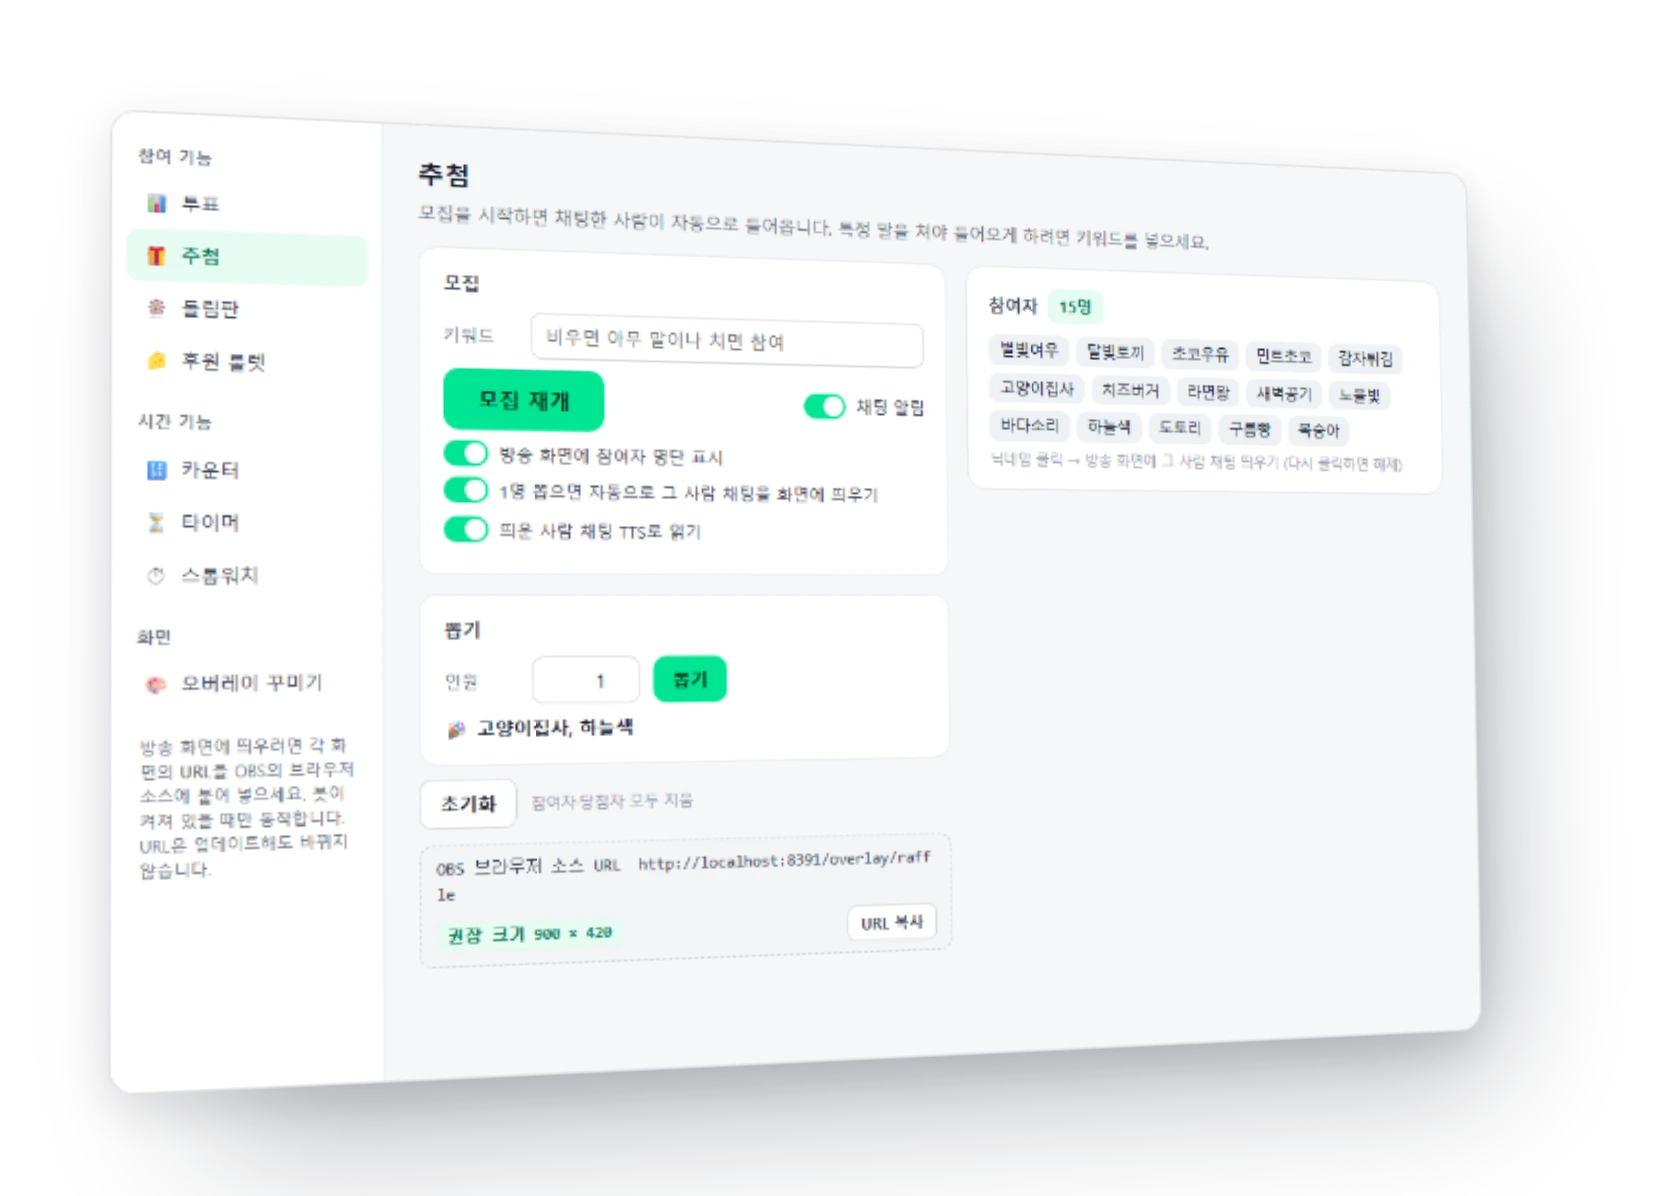
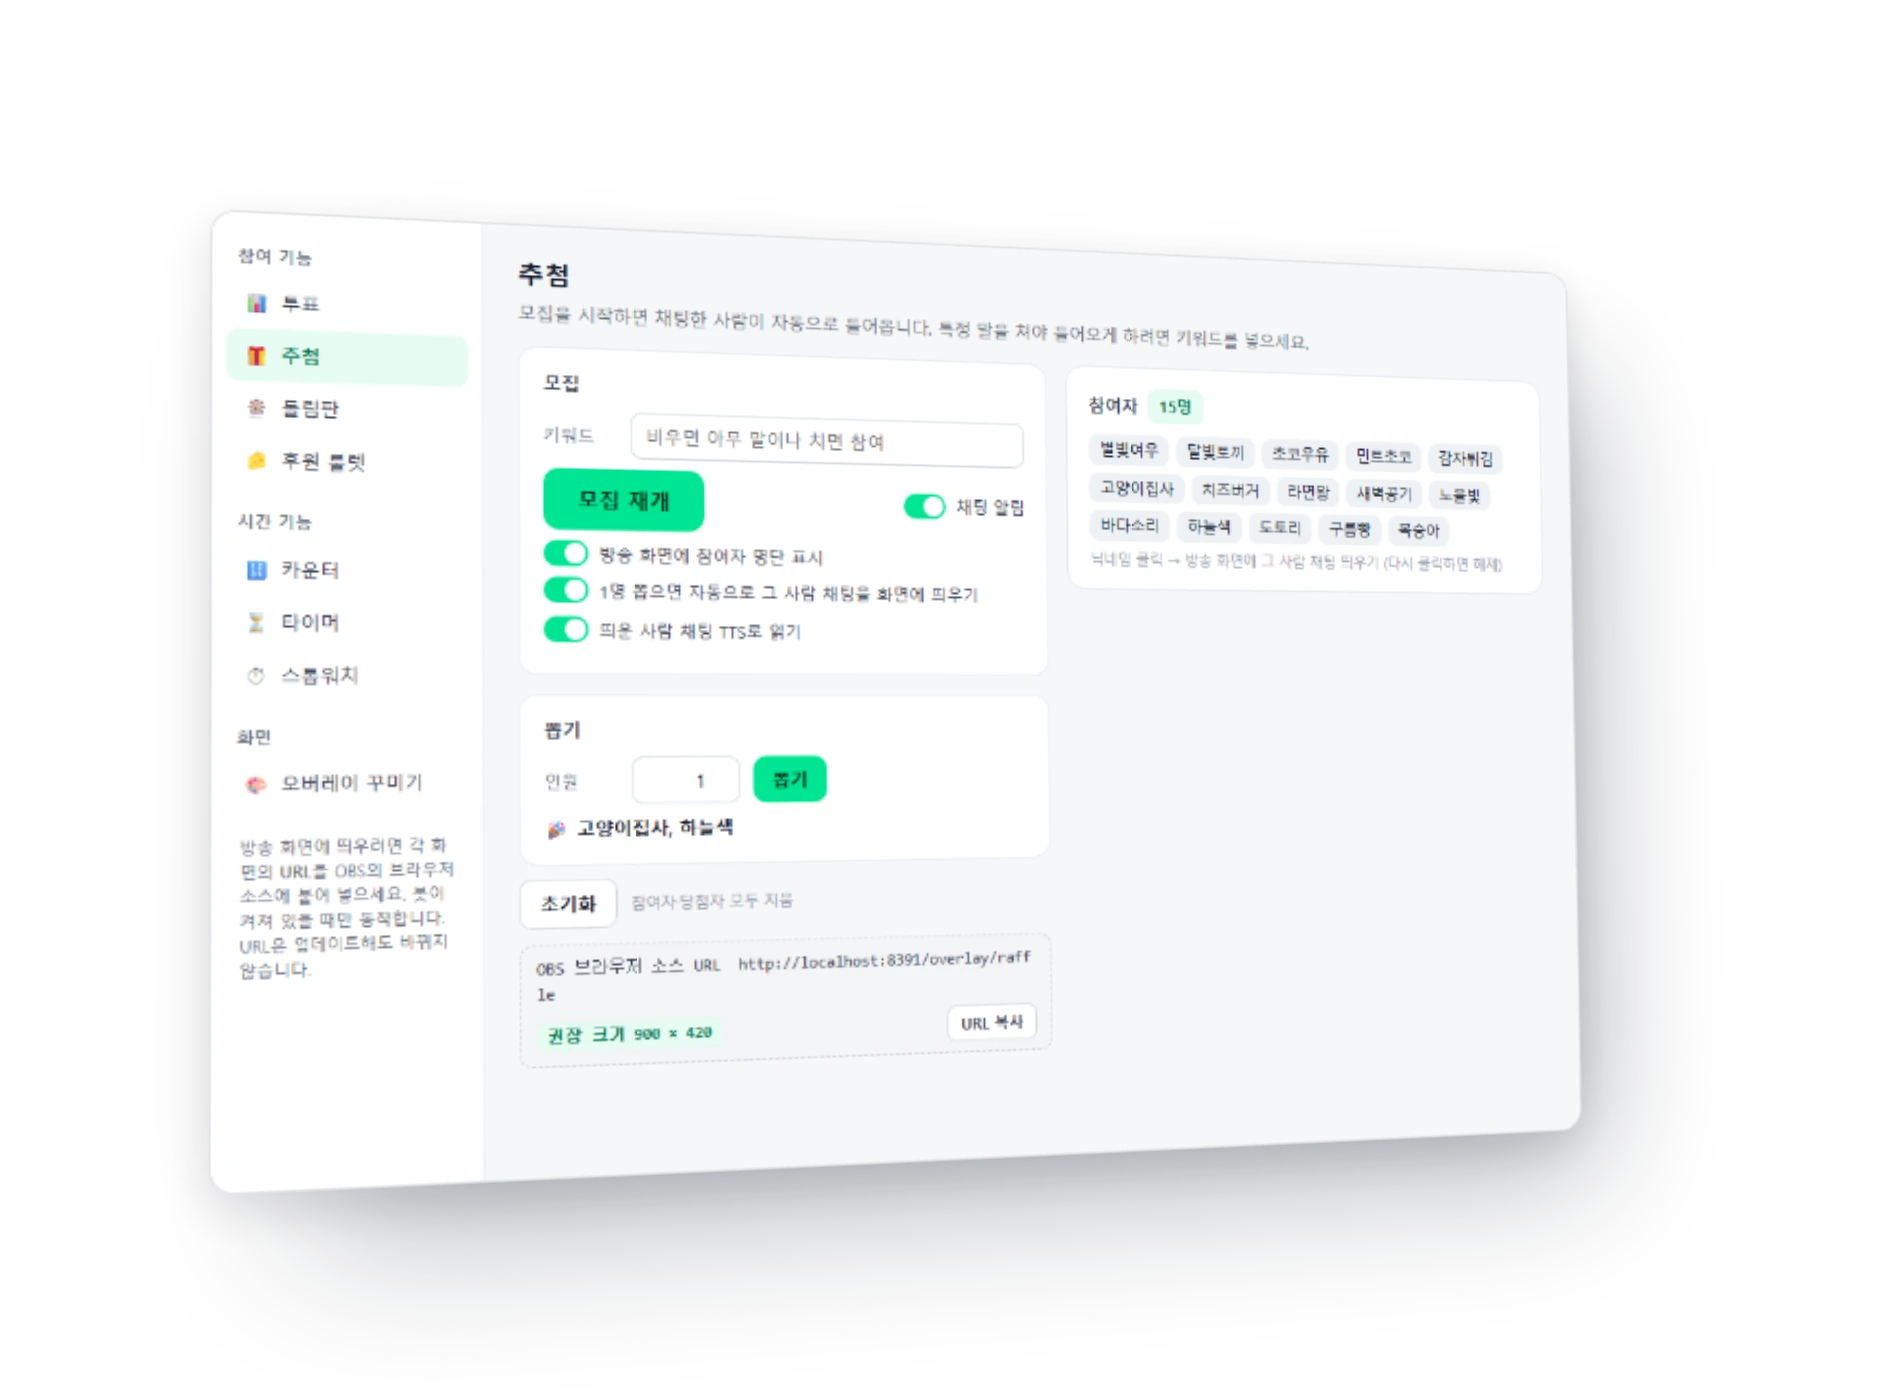
화면 섹션 이미지 그림자 여백 확대(120px) — 잘림 해결

diff --git a/index.html b/index.html
@@ -251,7 +251,7 @@
   /* 화면: 앱 창을 입체로 세우고 버튼에서 설명선을 뽑는다 */
   .shotrow { position: relative; min-height: 470px; }
   .shot3d { position: absolute; left: 110px; top: 0; padding: 0; }
-  .shot3d .win3d { display: block; width: 540px; height: auto; margin: -70px 0 0 -70px; }
+  .shot3d .win3d { display: block; width: 640px; height: auto; margin: -120px 0 0 -120px; }
   .appwin {
     width: 400px; background: #F6F7F9; color: #111827; border-radius: 10px; overflow: hidden; border: 1px solid #2A2B2F;
     font-family: "Malgun Gothic", "맑은 고딕", "Pretendard Variable", sans-serif; line-height: 1.3;
@@ -274,7 +274,9 @@
   .scr .txt { flex: 0 0 300px; }
   .scr .txt b { display: block; font-size: 22px; font-weight: 800; margin-bottom: 8px; letter-spacing: -.01em; }
   .scr .txt p { margin: 0; color: var(--muted, #6B7280); line-height: 1.6; font-size: 15px; }
-  .scr .pic { flex: 1; max-width: 840px; padding: 0; }
+  .scr .pic { flex: 1; max-width: 940px; padding: 0; margin: -30px 0; }
+  .scr .txt { margin-right: -50px; position: relative; z-index: 1; }
+  .scr.rev .txt { margin-right: 0; margin-left: -50px; }
   .scr .pic img { display: block; width: 100%; height: auto; }
   .scr.rev { flex-direction: row-reverse; }
   @media (max-width: 760px) {
@@ -375,7 +377,9 @@
     .featlist, .demo-row { grid-template-columns: 1fr; }
     .shotrow { min-height: 0; }
     .shot3d { position: static; }
-    .shot3d .win3d { width: 100%; max-width: 470px; margin: 0 auto; }
+    .shot3d .win3d { width: 100%; max-width: 520px; margin: 0 auto; }
+    .scr .txt, .scr.rev .txt { margin: 0; }
+    .scr .pic { margin: 0; }
     .appwin { width: 100%; max-width: 380px; margin: 0 auto; transform: none; box-shadow: 0 16px 40px rgba(17,24,39,.18); }
     .co { position: static; margin-top: 22px; }
     .co .line { display: none; }
@@ -500,18 +504,18 @@
     <p class="sub">켜는 것도 버튼 하나, 바꾸는 것도 버튼 하나입니다.</p>
     </div>
     <div class="shotrow">
-      <div class="shot3d reveal"><img class="win3d" src="/img/shots/appwin-3d.webp" width="1080" height="1302" alt="아인 앱 창 — 봇 실행 중 버튼, 설정·기능 버튼, 아래에 진행 상황 로그"></div>
+      <div class="shot3d reveal"><img class="win3d" src="/img/shots/appwin-3d.webp" width="1280" height="1502" alt="아인 앱 창 — 봇 실행 중 버튼, 설정·기능 버튼, 아래에 진행 상황 로그"></div>
       <div class="co co-on reveal"><span class="line"></span><div class="txt"><b>ON / OFF 버튼 하나</b><p>누르면 켜지고, 다시 누르면 꺼집니다. 방송 전에 한 번이면 끝.</p></div></div>
       <div class="co co-set reveal"><span class="line"></span><div class="txt"><b>설정 버튼 하나</b><p>인사말, 후원 문구, 명령어를 눌러서 고치면 봇에 바로 반영됩니다.</p></div></div>
     </div>
     <div class="screens">
       <div class="scr reveal">
         <div class="txt"><b>방송 화면에 이렇게 뜹니다</b><p>OBS 브라우저 소스로 넣는 타이머·투표·추첨·돌림판. 시청자는 채팅에 번호만 치면 되고, 결과는 화면과 채팅에 같이 나옵니다.</p></div>
-        <div class="pic"><img src="/img/shots/overlay-3d.webp" width="1680" height="1070" alt="방송 화면 예시(밝은 배경) — 위 줄에 타이머·투표·추첨, 왼쪽 아래 데스 카운터와 돌림판, 오른쪽 아래 캠" loading="lazy"></div>
+        <div class="pic"><img src="/img/shots/overlay-3d.webp" width="1880" height="1270" alt="방송 화면 예시(밝은 배경) — 위 줄에 타이머·투표·추첨, 왼쪽 아래 데스 카운터와 돌림판, 오른쪽 아래 캠" loading="lazy"></div>
       </div>
       <div class="scr rev reveal">
         <div class="txt"><b>기능 창에서 버튼으로</b><p>투표·추첨·돌림판·후원 룰렛과 카운터·타이머·스톱워치를 버튼으로 진행합니다. 명령어를 외울 것이 없고, 각 화면의 URL을 OBS에 한 번 넣으면 끝입니다.</p></div>
-        <div class="pic"><img src="/img/shots/features-3d.webp" width="1680" height="1198" alt="아인 기능 창 — 추첨 화면. 모집 재개 버튼, 명단 표시·자동 채팅 띄우기·TTS 스위치, 참여자 15명 목록" loading="lazy"></div>
+        <div class="pic"><img src="/img/shots/features-3d.webp" width="1880" height="1398" alt="아인 기능 창 — 추첨 화면. 모집 재개 버튼, 명단 표시·자동 채팅 띄우기·TTS 스위치, 참여자 15명 목록" loading="lazy"></div>
       </div>
     </div>
   </div>
